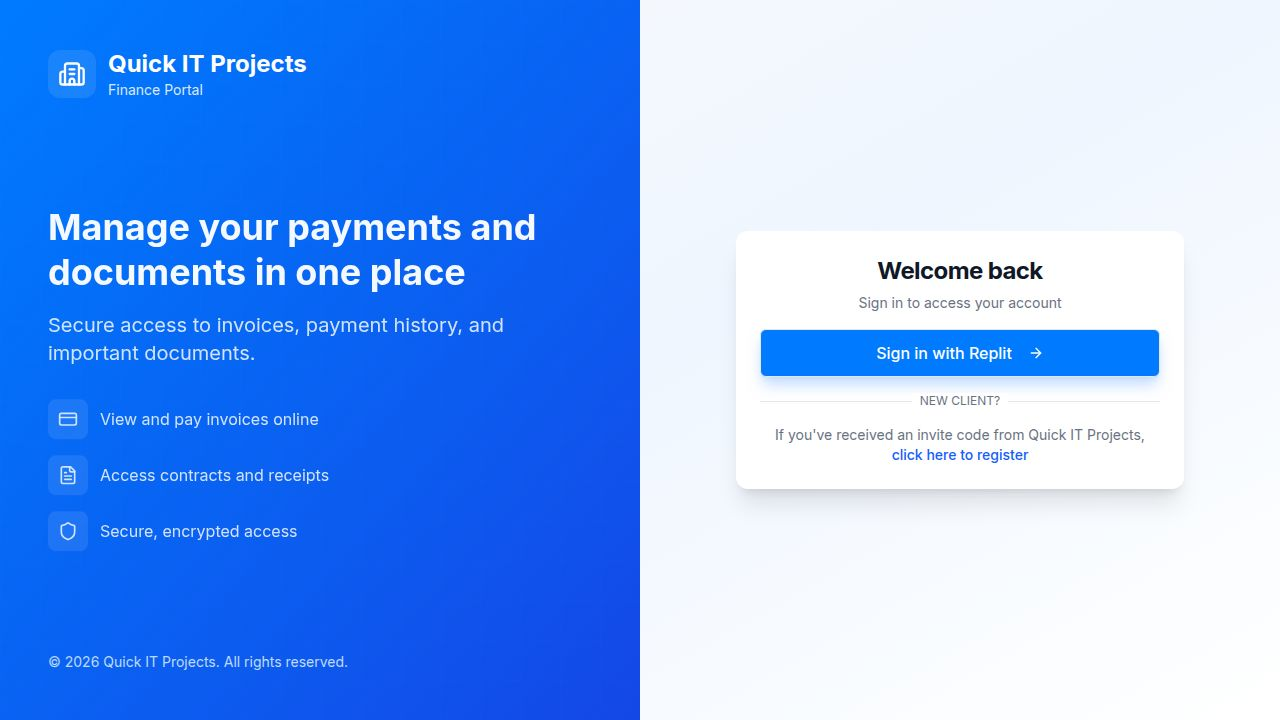
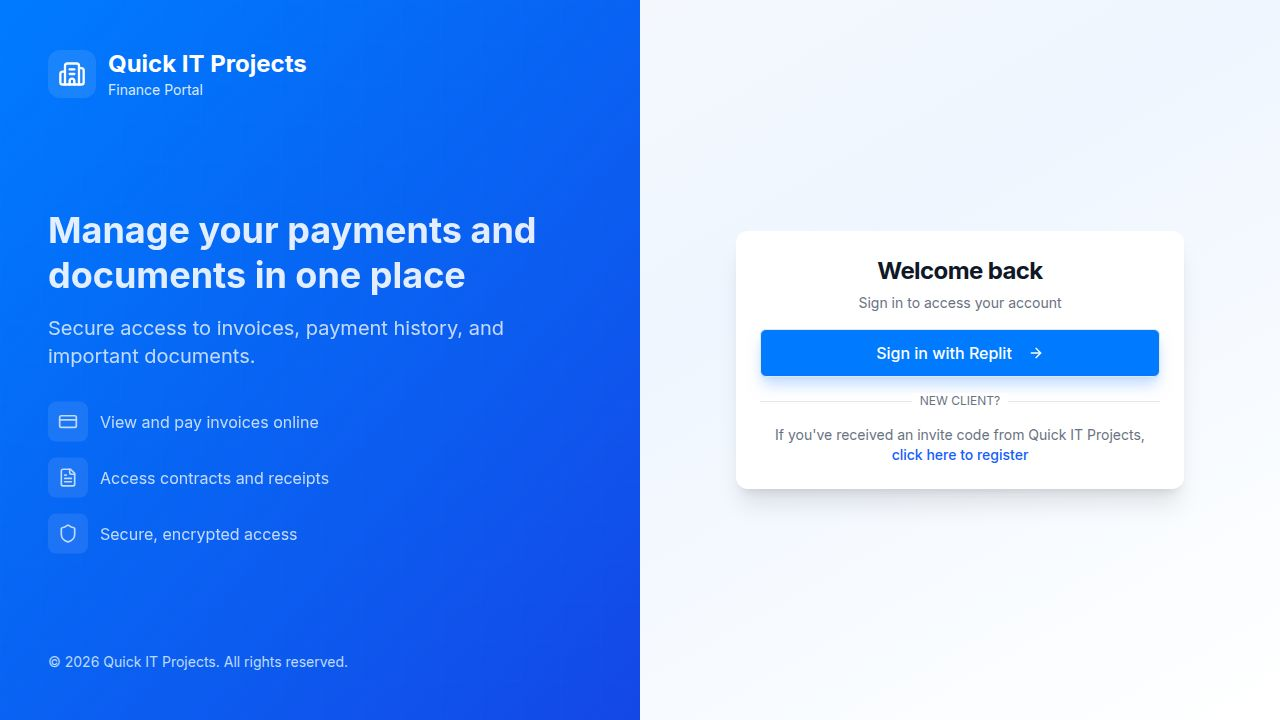
Update build script to correctly generate and run the server application
Modify the build script to output the server as `dist/index.js` and include a `dist/package.json` to ensure proper CommonJS handling by Node.js, aligning with Autoscale's expected run command.

Replit-Commit-Author: Agent
Replit-Commit-Session-Id: aadfc205-d336-4831-8e96-5727d8b23cbe
Replit-Commit-Checkpoint-Type: full_checkpoint
Replit-Commit-Event-Id: f9a11d8f-47ce-48b2-869e-dd7dc72ea656
Replit-Commit-Screenshot-Url: https://storage.googleapis.com/screenshot-production-us-central1/55294787-0b14-4f33-8971-a9de7f340fb0/aadfc205-d336-4831-8e96-5727d8b23cbe/QABVQZJ
Replit-Helium-Checkpoint-Created: true

diff --git a/script/build.ts b/script/build.ts
@@ -51,7 +51,7 @@ async function buildAll() {
     platform: "node",
     bundle: true,
     format: "cjs",
-    outfile: "dist/index.cjs",
+    outfile: "dist/index.js",
     define: {
       "process.env.NODE_ENV": '"production"',
     },
@@ -59,6 +59,14 @@ async function buildAll() {
     external: externals,
     logLevel: "info",
   });
+
+  // Write a local package.json so Node treats dist/index.js as CommonJS
+  // even though the root package.json has "type": "module".
+  const { writeFile } = await import("fs/promises");
+  await writeFile(
+    "dist/package.json",
+    JSON.stringify({ type: "commonjs" }, null, 2),
+  );
 }
 
 buildAll().catch((err) => {